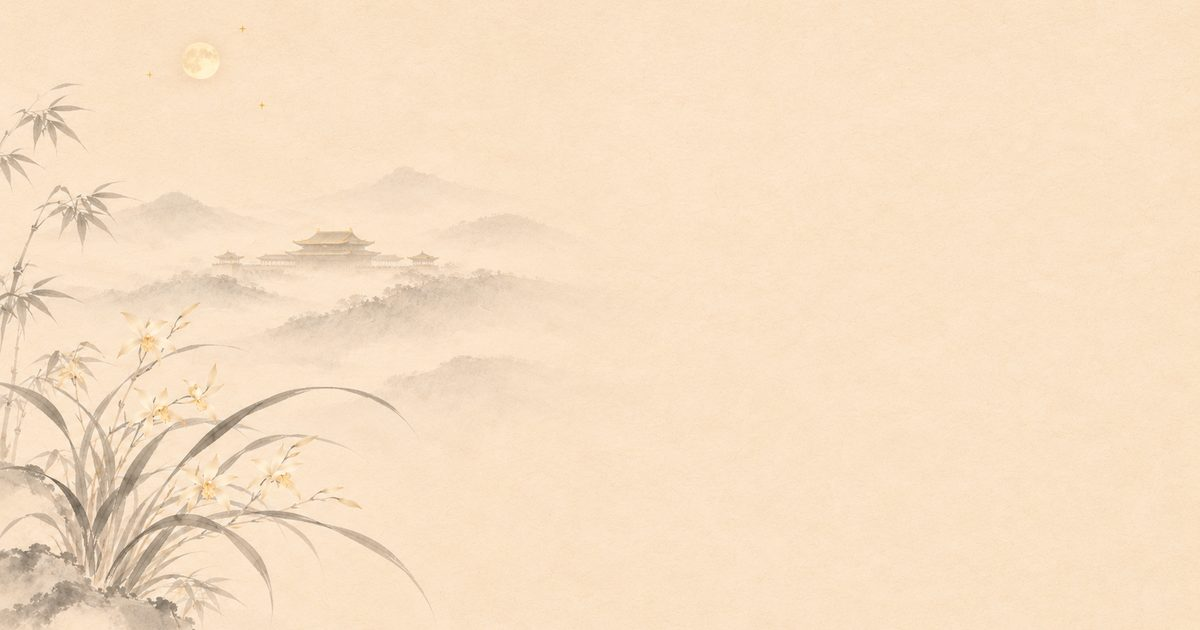
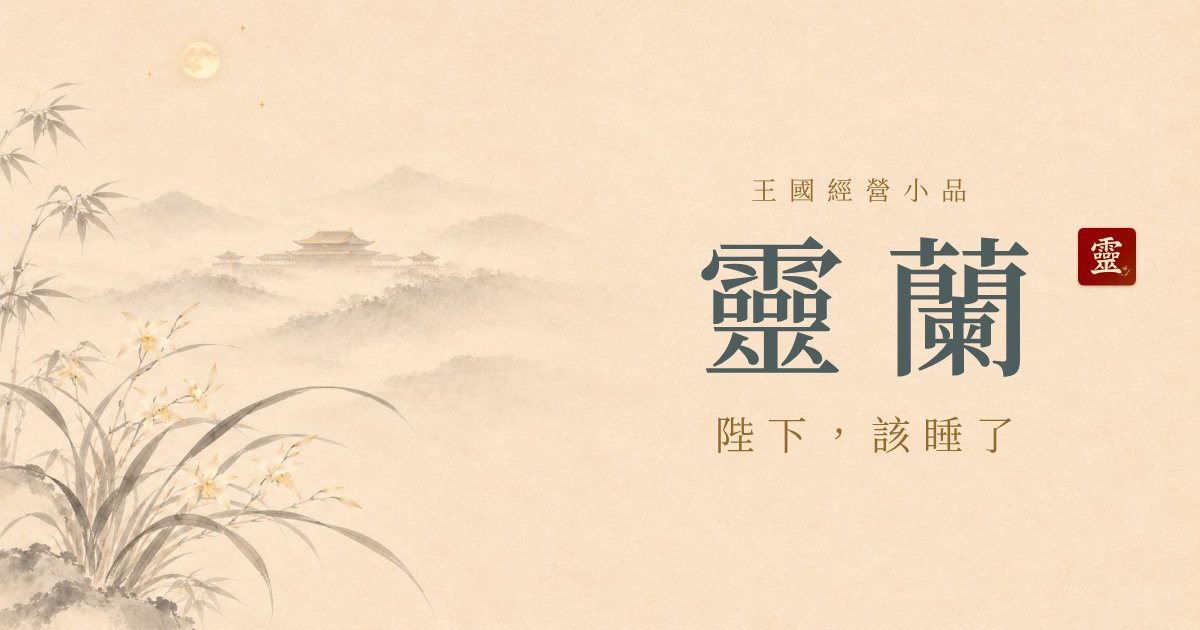
分享縮圖右側加上標題、副標與印章
原本直接裁切橫幅主視覺，右半邊留白，在社群預覽裡看起來空空的。
圖片網址加上版本參數，讓社群平台重新抓取。

Claude-Session: https://claude.ai/code/session_01DWRUU5jvQaJoFHQnnYxHa8

diff --git a/docs/index.html b/docs/index.html
@@ -1,5 +1,5 @@
 <!doctype html>
-<html lang="zh-Hant-TW"><head><meta charset="utf-8"><meta name="format-detection" content="telephone=no"><meta name="viewport" content="width=device-width,initial-scale=1,viewport-fit=cover"><meta name="theme-color" content="#f6e8cf"><meta name="description" content="靈蘭，一款王國經營小品。帶著四位大臣，讓王國平安度過四季。不用登入，進度只保存在你的瀏覽器。"><title>靈蘭・陛下，該睡了</title><meta property="og:type" content="website"><meta property="og:title" content="靈蘭・陛下，該睡了"><meta property="og:description" content="一款王國經營小品。帶著四位大臣，讓王國平安度過四季。"><meta property="og:url" content="https://imqingstone.github.io/linglan/"><meta property="og:image" content="https://imqingstone.github.io/linglan/img/og.jpg"><meta property="og:image:width" content="1200"><meta property="og:image:height" content="630"><meta name="twitter:card" content="summary_large_image"><link rel="preload" as="image" href="img/hero-tall.jpg" media="(max-aspect-ratio: 1/1)"><link rel="preload" as="image" href="img/hero-wide.jpg" media="(min-aspect-ratio: 1/1)"><link rel="stylesheet" href="style.css"><link rel="apple-touch-icon" href="apple-touch-icon.png"><meta name="apple-mobile-web-app-title" content="靈蘭"><link rel="icon" type="image/png" href="icon-192.png"></head>
+<html lang="zh-Hant-TW"><head><meta charset="utf-8"><meta name="format-detection" content="telephone=no"><meta name="viewport" content="width=device-width,initial-scale=1,viewport-fit=cover"><meta name="theme-color" content="#f6e8cf"><meta name="description" content="靈蘭，一款王國經營小品。帶著四位大臣，讓王國平安度過四季。不用登入，進度只保存在你的瀏覽器。"><title>靈蘭・陛下，該睡了</title><meta property="og:type" content="website"><meta property="og:title" content="靈蘭・陛下，該睡了"><meta property="og:description" content="一款王國經營小品。帶著四位大臣，讓王國平安度過四季。"><meta property="og:url" content="https://imqingstone.github.io/linglan/"><meta property="og:image" content="https://imqingstone.github.io/linglan/img/og.jpg?v=2"><meta property="og:image:width" content="1200"><meta property="og:image:height" content="630"><meta name="twitter:card" content="summary_large_image"><link rel="preload" as="image" href="img/hero-tall.jpg" media="(max-aspect-ratio: 1/1)"><link rel="preload" as="image" href="img/hero-wide.jpg" media="(min-aspect-ratio: 1/1)"><link rel="stylesheet" href="style.css"><link rel="apple-touch-icon" href="apple-touch-icon.png"><meta name="apple-mobile-web-app-title" content="靈蘭"><link rel="icon" type="image/png" href="icon-192.png"></head>
 <body>
 <a class="skip" href="#main">跳到主要內容</a>
 <main id="main" tabindex="-1">
